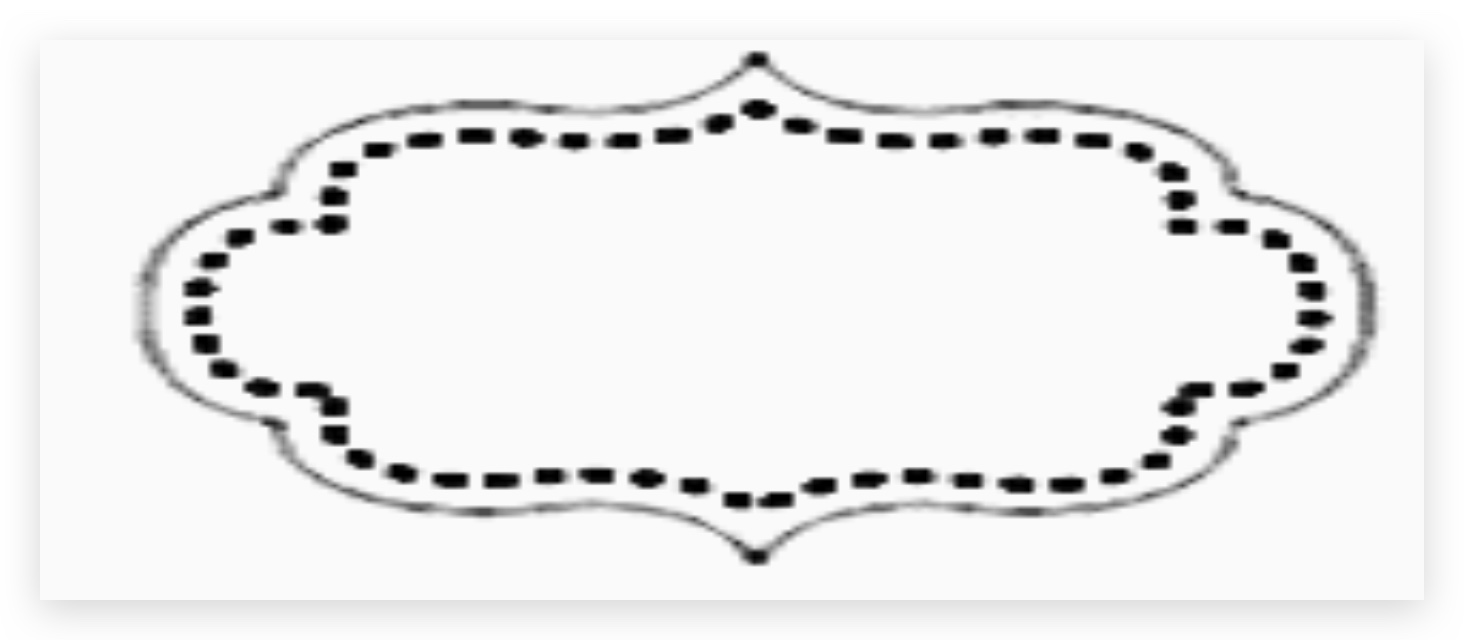
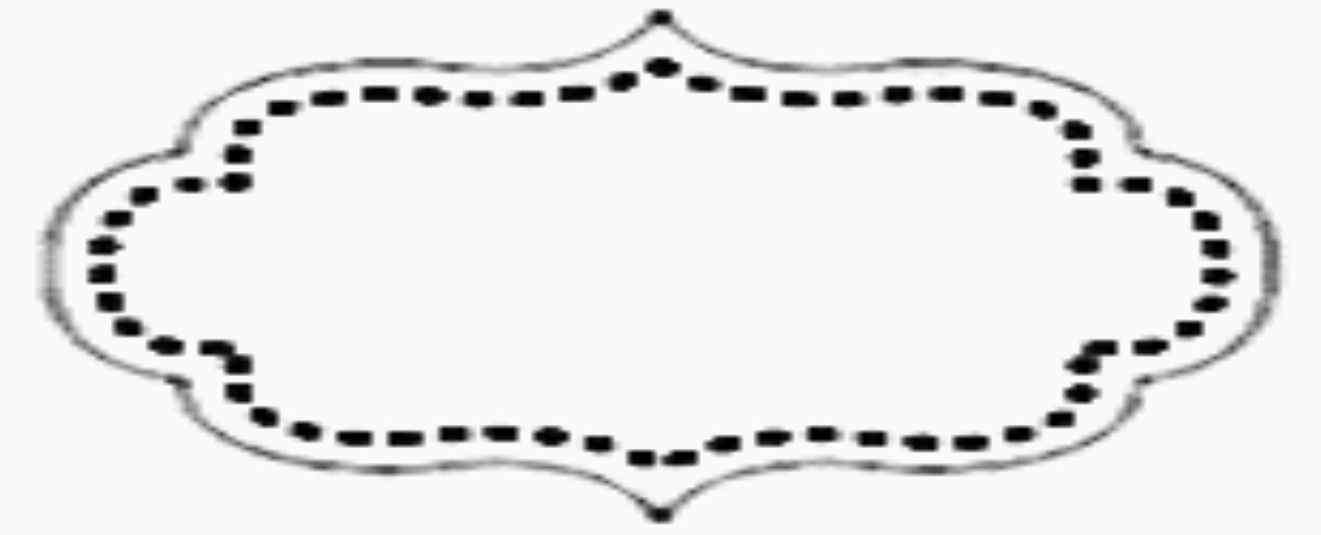
correct print size for small, medium, large

Changed region(s): [[0.031, 0.0, 0.9932, 0.9869]]

diff --git a/js/custom-label.js b/js/custom-label.js
@@ -7,10 +7,37 @@ class CustomLabel extends HTMLElement {
     template.innerHTML = `
       <style>
         :host {
-          --font-size: ${this.tamanho}pt;
+          --font-size: ${this.tamanhofonte}pt;
 
-          display: block;
+          display: inline-block;
+
+          width: ${this.tamanho}cm;
+          height: ${this.tamanho * 0.405}cm;
           position: relative;
+
+          background: url("${this.imagem}");
+          background-size: contain;
+          background-repeat: no-repeat;
+
+          margin-bottom: 6px;
+          margin-left: 6px;
+        }
+
+        @media print {
+          :host {
+            /* A4 size */
+            width: ${this.tamanho}cm;
+            height: ${this.tamanho * 0.405}cm;
+          }
+        }
+
+        :host > div {
+          display: flex;
+          width: 100%;
+          height: 100%;
+          text-align: center;
+          align-items: center;
+          place-items: center;
         }
 
         img {
@@ -24,12 +51,11 @@ class CustomLabel extends HTMLElement {
           margin: 0;
 
           width: 100%;
+          padding: 0px ${this.margemfonte}px;
           text-align: center;
-          position: absolute;
-          top: calc(50% - 10px - var(--font-size) / 2);
         }
       </style>
-      <img src="${this.imagem}" alt="Etiqueta" />
+      <!-- <img src="${this.imagem}" alt="Etiqueta" /> -->
       <p>${this.texto}</p>
     `;
 
@@ -44,11 +70,29 @@ class CustomLabel extends HTMLElement {
   }
   get tamanho() {
     const tamanhos = new Map([
-      ["grande", 60],
-      ["medio", 40],
-      ["pequeno", 25],
+      ["grande", 9],
+      ["medio", 6],
+      ["pequeno", 4.5]
     ]);
-    return tamanhos.get(this.getAttribute("tamanho")) || this.getAttribute("tamanho") || "";
+    return tamanhos.get(this.getAttribute("tamanho")) || "";
+  }
+
+  get margemfonte() {
+    const tamanhos = new Map([
+      ["grande", 60],
+      ["medio", 44],
+      ["pequeno", 34]
+    ]);
+    return this.getAttribute("margemfonte") || tamanhos.get(this.getAttribute("tamanho")) || "";
+  }
+
+  get tamanhofonte() {
+    const tamanhos = new Map([
+      ["grande", 24],
+      ["medio", 14],
+      ["pequeno", 11]
+    ]);
+    return this.getAttribute("tamanhofonte") || tamanhos.get(this.getAttribute("tamanho")) || "";
   }
 }
 

diff --git a/index.html b/index.html
@@ -1,29 +1,27 @@
-<html>
-    <head>
-        <title>Etiquetas</title>
+<!doctype html>
+<html lang="pt-BR">
+  <head>
+    <meta charset="utf-8">
+    <title>Etiquetas</title>
+  </head>
+  <body>
+    <main>
+      <form action="print.html">
+        <p>Etiquetas (separe com vírgula se quiser mais de uma)</p>
+        <input required name="texto" type="text" placeholder="Digite as etiquetas aqui">
 
-        <style>
+        <p>Tamanho da etiqueta</p>
+        <input checked required type="radio" name="tamanho" value="pequeno" id="pequeno">
+        <label for="pequeno">Pequena</label><br>
+        <input required type="radio" name="tamanho" value="medio" id="medio">
+        <label for="medio">Média</label><br>
+        <input required type="radio" name="tamanho" value="grande" id="grande">
+        <label for="grande">Grande</label><br>
 
-        </style>
-    </head>
-    <body>
-        <main>
-            <form action="print.html">
-              <p>Etiquetas (separe com vírgula se quiser mais de uma)</p>
-              <input required name="texto" type="text" placeholder="Digite as etiquetas aqui">
-
-              <p>Tamanho da etiqueta</p>
-              <input checked required type="radio" name="tamanho" value="pequeno" id="pequeno">
-              <label for="pequeno">Pequena</label><br>
-              <input required type="radio" name="tamanho" value="medio" id="medio">
-              <label for="medio">Média</label><br>
-              <input required type="radio" name="tamanho" value="grande" id="grande">
-              <label for="grande">Grande</label><br>
-
-              <button>Imprimir</button>
-            </form>
-        </main>
-        <script src="js/custom-label.js"></script>
-        <script src="js/index.js"></script>
-    </body>
+        <button>Imprimir</button>
+      </form>
+    </main>
+    <script src="js/custom-label.js"></script>
+    <script src="js/index.js"></script>
+  </body>
 </html>

diff --git a/print.html b/print.html
@@ -1,24 +1,25 @@
-<html>
-    <head>
-        <title>Etiquetas</title>
+<!doctype html>
+<html lang="pt-BR">
+  <head>
+    <meta charset="utf-8">
+    <title>Etiquetas</title>
 
-        <style>
-          @media print {
-            body {
-              /* A4 size */
-              width: 21cm;
-              height: 29.7cm;
-              margin: 30mm 45mm 30mm 45mm;
-              /* change the margins as you want them to be. */
-          }
-        }
-        </style>
-    </head>
-    <body>
-        <main>
-            <custom-label imagem="static/label.jpg" texto="Etiqueta"></custom-label>
-        </main>
-        <script src="js/custom-label.js"></script>
-        <script src="js/print.js"></script>
-    </body>
+    <style>
+      @media print {
+        body {
+          /* A4 size */
+          width: 21cm;
+          height: 29.7cm;
+          /* change the margins as you want them to be. */
+      }
+    }
+    </style>
+  </head>
+  <body>
+    <main>
+      <custom-label imagem="static/label.jpg" texto="Etiqueta"></custom-label>
+    </main>
+    <script src="js/custom-label.js"></script>
+    <script src="js/print.js"></script>
+  </body>
 </html>

diff --git a/js/print.js b/js/print.js
@@ -13,5 +13,8 @@
 
   main.innerHTML = `
     <custom-label imagem="${imagem}" texto="${texto}" tamanho=${tamanho}></custom-label>
+    <custom-label imagem="${imagem}" texto="${"açucar"}" tamanho=${tamanho}></custom-label>
+    <custom-label imagem="${imagem}" texto="semente de abóbora" tamanho=${tamanho}></custom-label>
+    <custom-label imagem="${imagem}" texto="${texto}" tamanho=${tamanho}></custom-label>
   `;
 })();

diff --git a/label-names.js b/label-names.js
@@ -26,7 +26,7 @@ export const medium = [
     "linhaça",
     "sal",
     "sal",
-    "semente de abobora",
+    "semente de abóbora",
     "semente de girassol",
     "semente de mostarda",
     "tanchagem"
